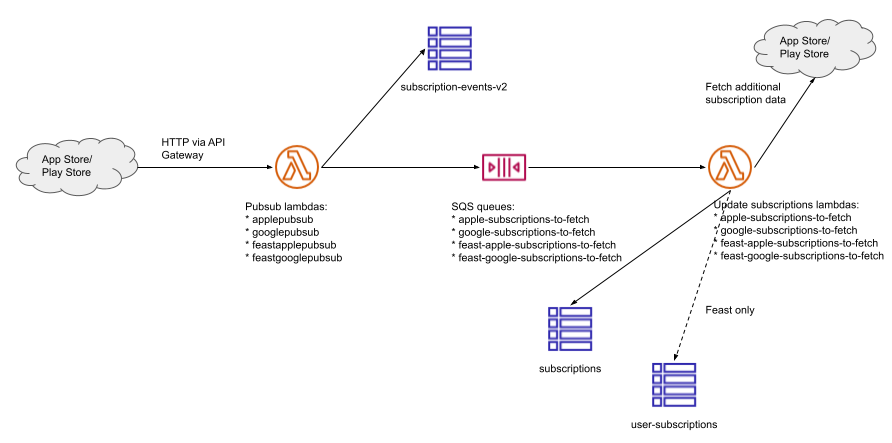
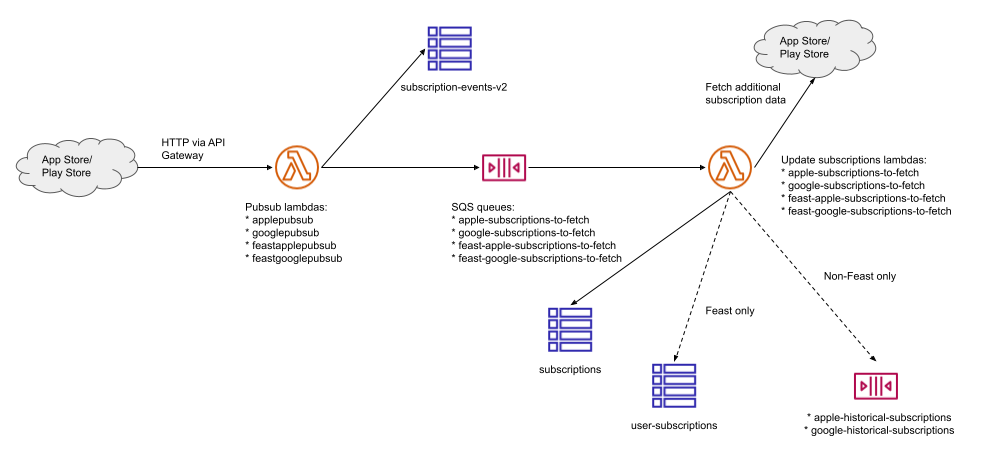
Exports

diff --git a/docs/ARCHITECTURE.md b/docs/ARCHITECTURE.md
@@ -42,8 +42,10 @@ The apps call endpoints to check the status of a subscription.
 
 ## Datalake export
 
-The subscriptions, subscription-events and user-subscriptions Dynamo tables are exported to the datalake. This is orchestrated by lambdas triggered on a cron schedule.
+The subscriptions, subscription-events and user-subscriptions Dynamo tables are exported to the datalake. This is orchestrated by lambdas triggered on a cron schedule. Data is exported to s3 by the lambdas and then transferred to GCS and ingested into a table, scheduled by Airflow.
 
-TODO: add diagram.
+For non-Feast subscriptions, the update-subscriptions lambdas push onto an SQS queue for each change and this historical data is exported by lambdas.
+
+![Exports Architecture](exports.png)
 
 Source architecture diagrams are [here](https://drive.google.com/drive/folders/1D4Fe7kZMc99XBI4woPSmTQIG2ySGd9hl).
